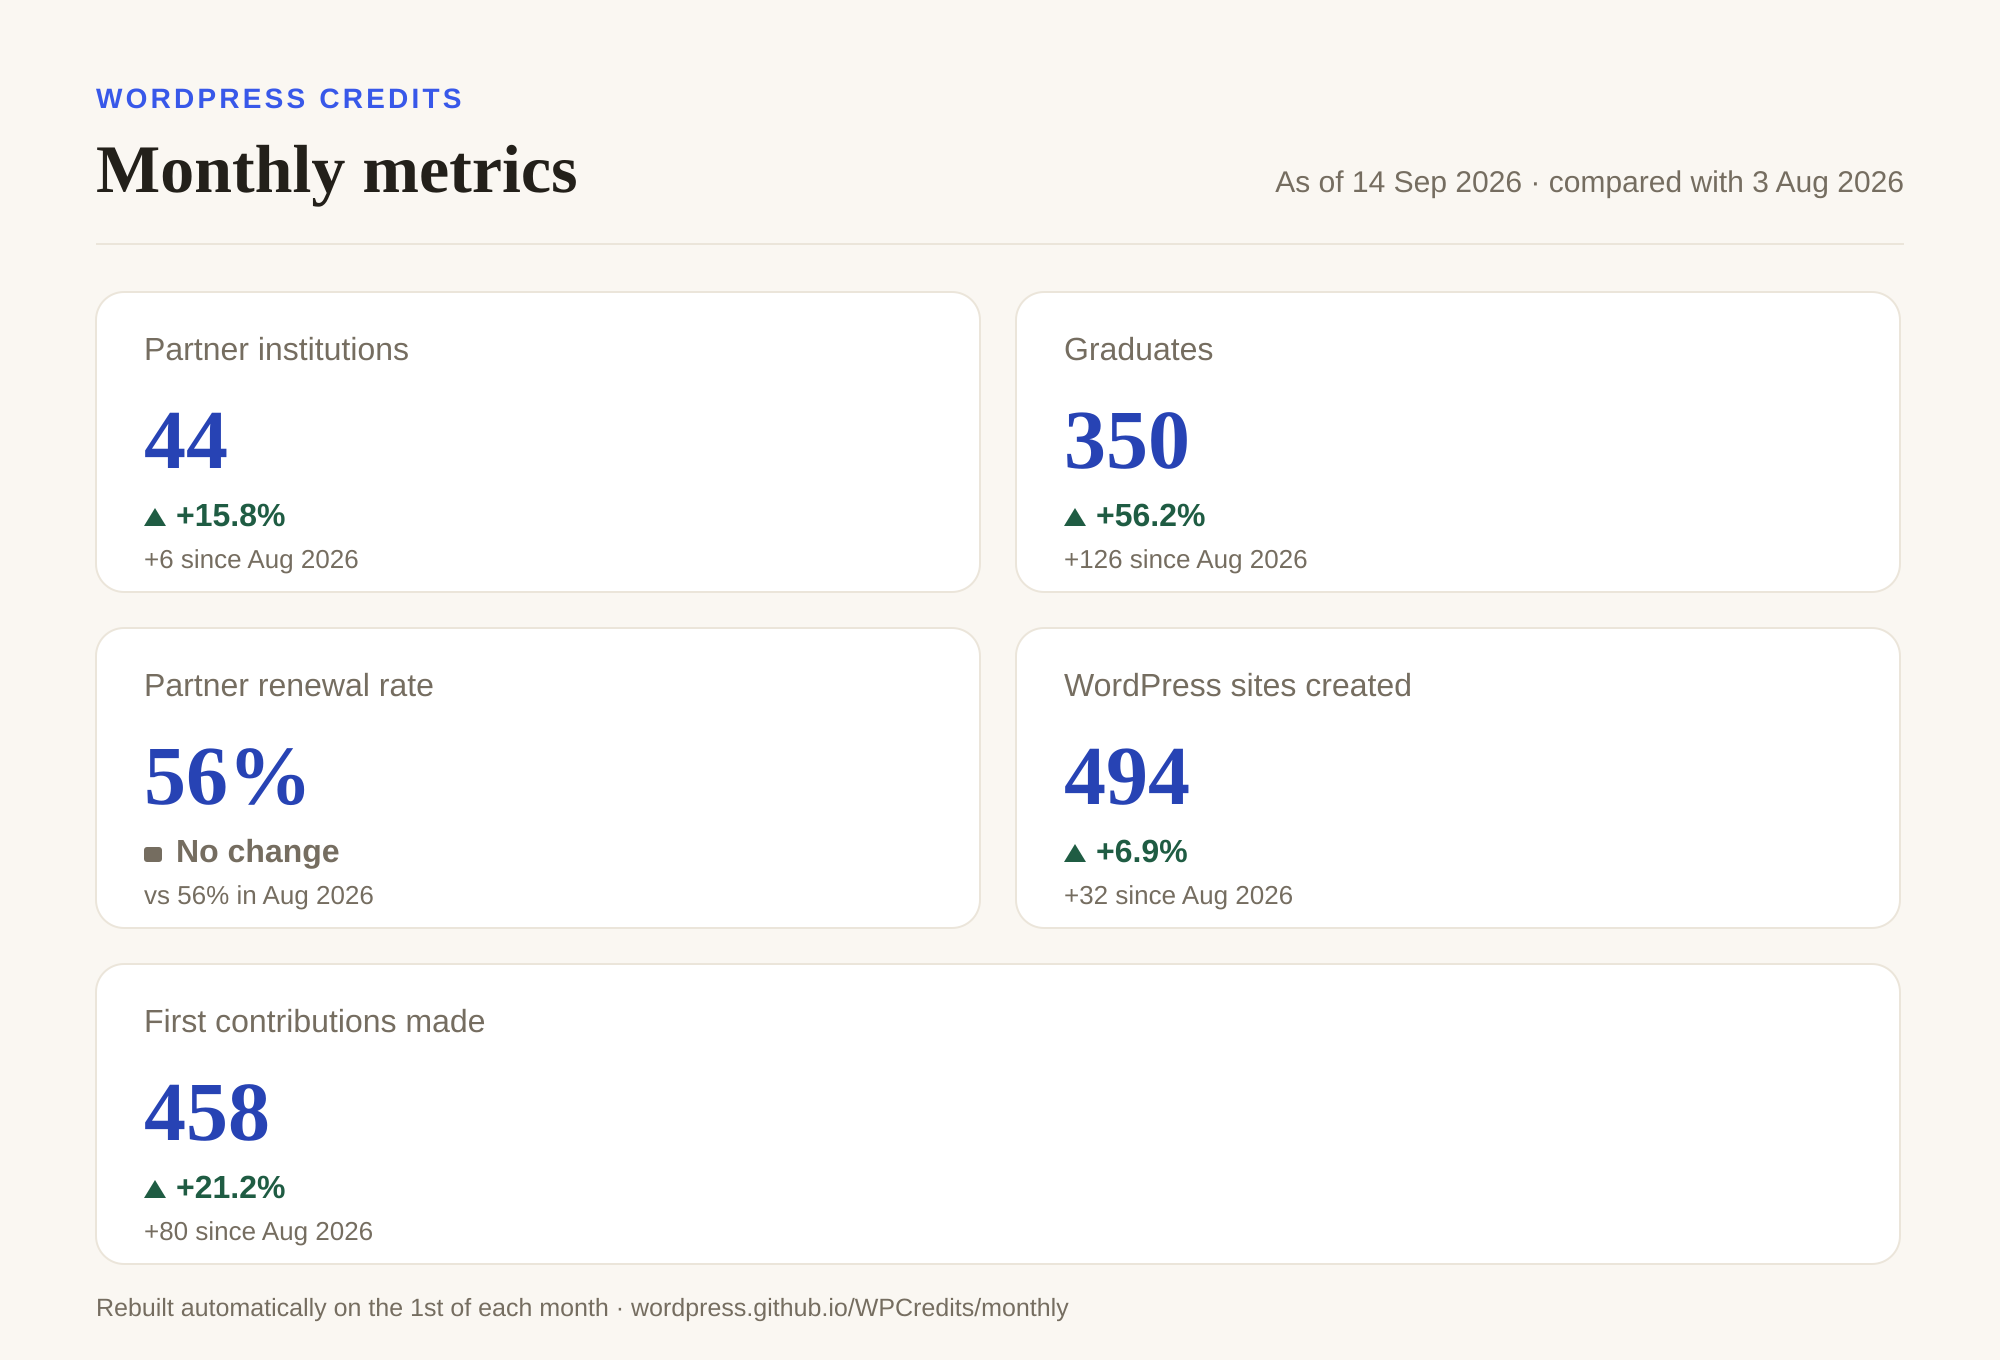
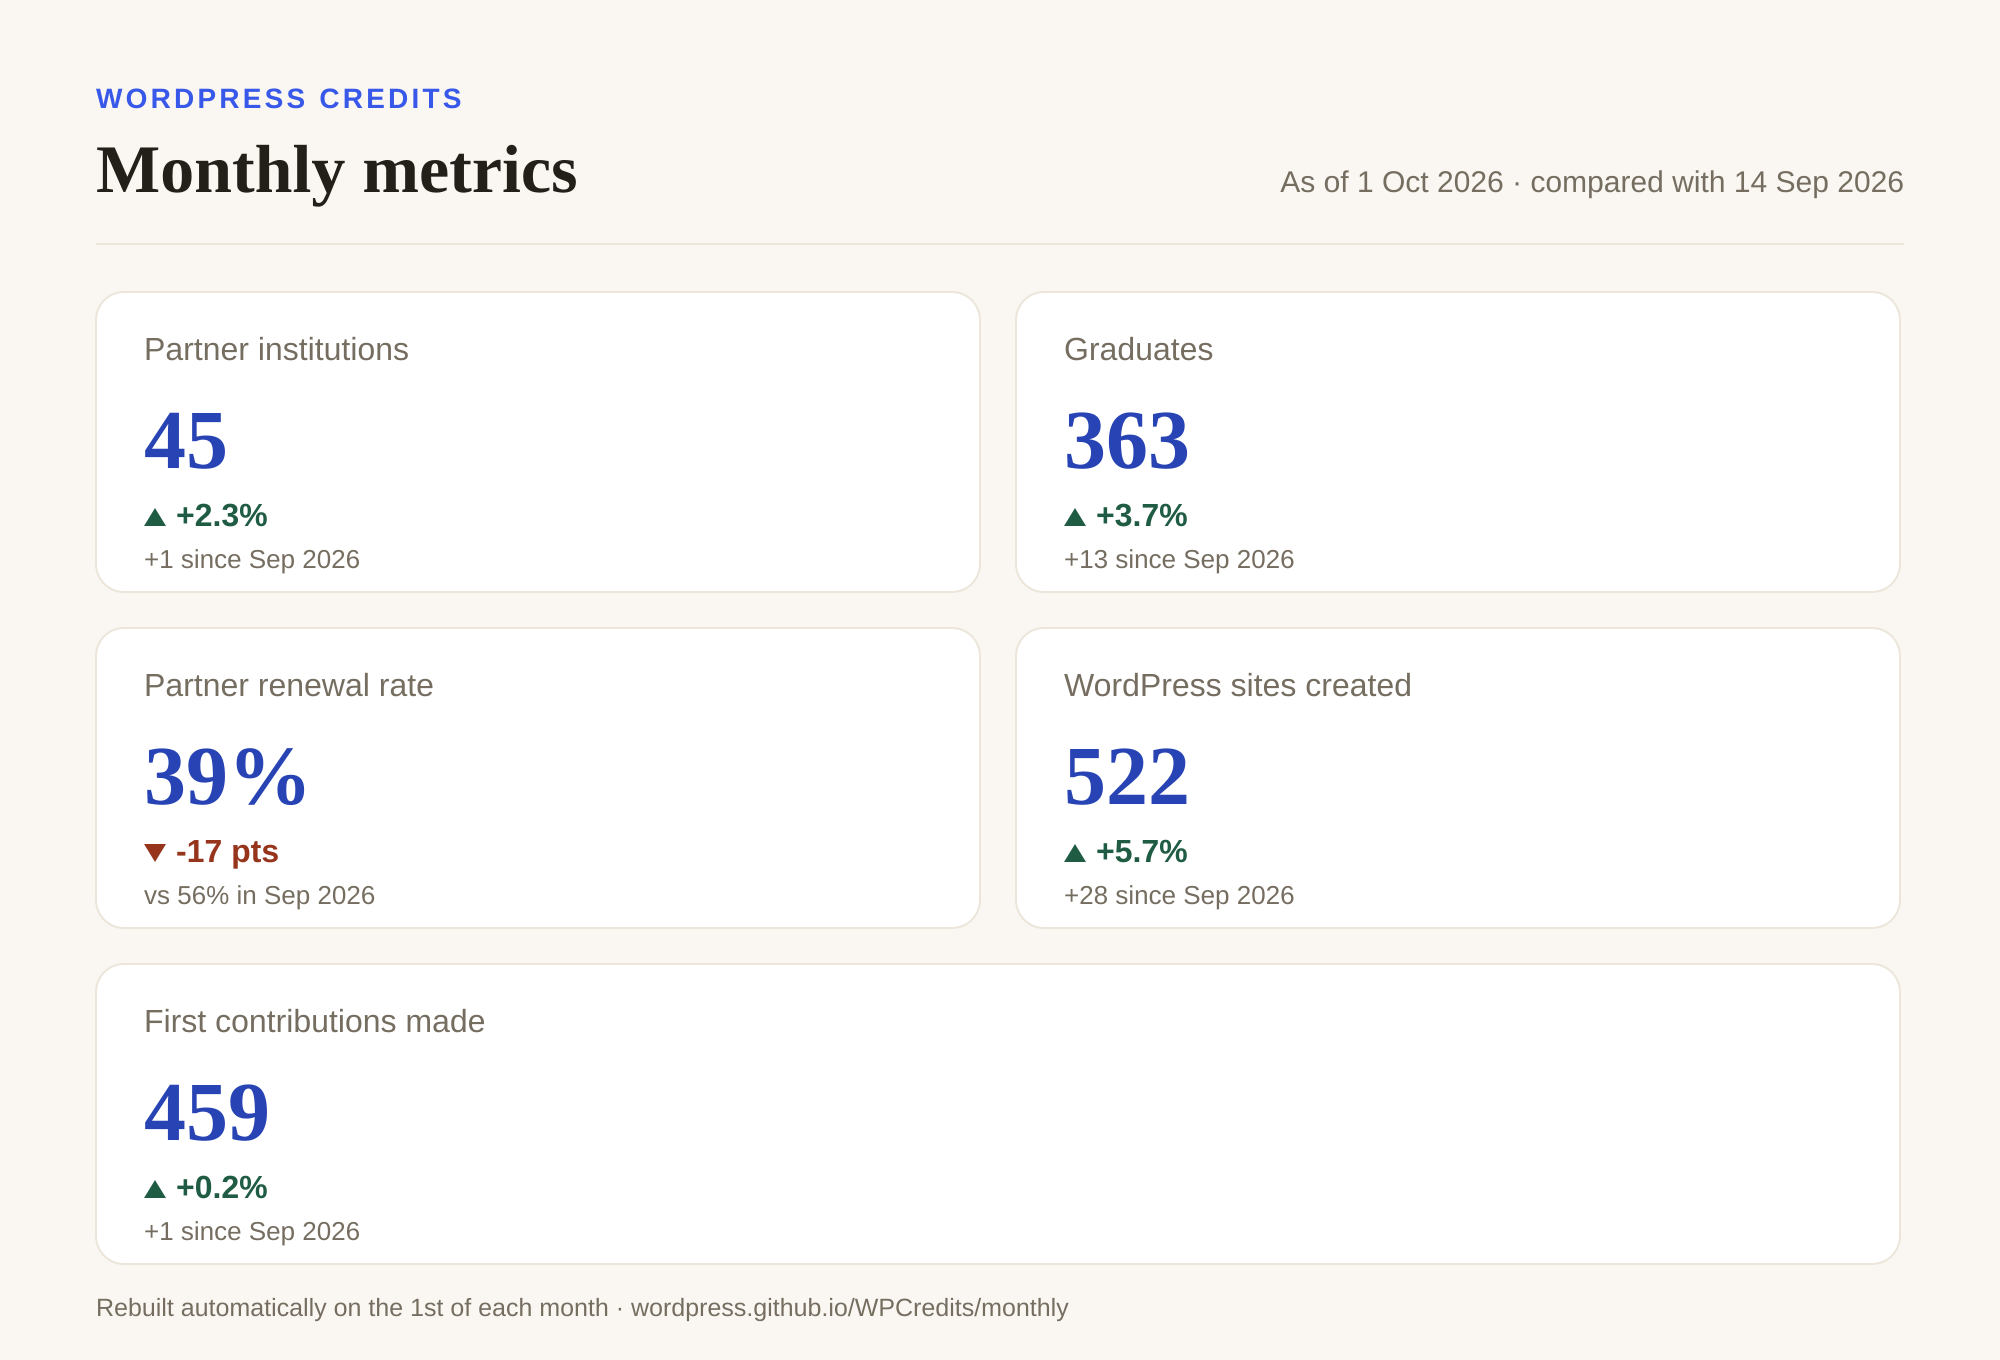
Update monthly metrics 2026-10-01

diff --git a/monthly.html b/monthly.html
@@ -108,7 +108,7 @@ footer{margin-top:34px;padding-top:20px;border-top:1px solid var(--border);font-
 </div>
 
 <script>
-const D = {"generated":"2026-09-14","currentKey":"2026-09","previousKey":"2026-08","currentAsOf":"2026-09-14","previousAsOf":"2026-08-03","months":["2026-04","2026-05","2026-06","2026-07","2026-08","2026-09"],"metrics":[{"key":"partnerInstitutions","label":"Partner institutions","unit":"count","note":"Institutions whose partnership stage is Confirmed.","value":44,"previous":38,"change":{"kind":"percent","value":15.8,"abs":6},"series":[{"month":"2026-04","value":9},{"month":"2026-05","value":21},{"month":"2026-06","value":24},{"month":"2026-07","value":29},{"month":"2026-08","value":38},{"month":"2026-09","value":44}]},{"key":"graduates","label":"Graduates","unit":"count","note":"Students who completed their agreed hours of applied work.","value":350,"previous":224,"change":{"kind":"percent","value":56.2,"abs":126},"series":[{"month":"2026-04","value":9},{"month":"2026-05","value":66},{"month":"2026-06","value":126},{"month":"2026-07","value":198},{"month":"2026-08","value":224},{"month":"2026-09","value":350}]},{"key":"renewalRate","label":"Partner renewal rate","unit":"percent","note":"Share of partners that have run more than one cohort — a new intake at least a quarter after their first. Schools whose first cohort is the current quarter are excluded, having had no chance to return yet.","value":56,"previous":56,"change":{"kind":"points","value":0,"abs":0},"series":[],"detail":{"count":10,"total":18,"tooNew":11}},{"key":"sitesCreated","label":"WordPress sites created","unit":"count","note":"Student project websites built during the program.","value":494,"previous":462,"change":{"kind":"percent","value":6.9,"abs":32},"series":[]},{"key":"firstContributions","label":"First contributions made","unit":"count","note":"Students who recorded their first contribution to the WordPress project.","value":458,"previous":378,"change":{"kind":"percent","value":21.2,"abs":80},"series":[]}],"table":[{"month":"2026-04","asOf":"2026-04-02","values":{"partnerInstitutions":9,"graduates":9,"renewalRate":null,"sitesCreated":null,"firstContributions":null}},{"month":"2026-05","asOf":"2026-05-04","values":{"partnerInstitutions":21,"graduates":66,"renewalRate":null,"sitesCreated":null,"firstContributions":null}},{"month":"2026-06","asOf":"2026-06-01","values":{"partnerInstitutions":24,"graduates":126,"renewalRate":null,"sitesCreated":null,"firstContributions":null}},{"month":"2026-07","asOf":"2026-07-06","values":{"partnerInstitutions":29,"graduates":198,"renewalRate":null,"sitesCreated":null,"firstContributions":null}},{"month":"2026-08","asOf":"2026-08-03","values":{"partnerInstitutions":38,"graduates":224,"renewalRate":56,"sitesCreated":462,"firstContributions":378}},{"month":"2026-09","asOf":"2026-09-14","values":{"partnerInstitutions":44,"graduates":350,"renewalRate":56,"sitesCreated":494,"firstContributions":458}}]};
+const D = {"generated":"2026-10-01","currentKey":"2026-10","previousKey":"2026-09","currentAsOf":"2026-10-01","previousAsOf":"2026-09-14","months":["2026-04","2026-05","2026-06","2026-07","2026-08","2026-09","2026-10"],"metrics":[{"key":"partnerInstitutions","label":"Partner institutions","unit":"count","note":"Institutions whose partnership stage is Confirmed.","value":45,"previous":44,"change":{"kind":"percent","value":2.3,"abs":1},"series":[{"month":"2026-04","value":9},{"month":"2026-05","value":21},{"month":"2026-06","value":24},{"month":"2026-07","value":29},{"month":"2026-08","value":38},{"month":"2026-09","value":44},{"month":"2026-10","value":45}]},{"key":"graduates","label":"Graduates","unit":"count","note":"Students who completed their agreed hours of applied work.","value":363,"previous":350,"change":{"kind":"percent","value":3.7,"abs":13},"series":[{"month":"2026-04","value":9},{"month":"2026-05","value":66},{"month":"2026-06","value":126},{"month":"2026-07","value":198},{"month":"2026-08","value":224},{"month":"2026-09","value":350},{"month":"2026-10","value":363}]},{"key":"renewalRate","label":"Partner renewal rate","unit":"percent","note":"Share of partners that have run more than one cohort — a new intake at least a quarter after their first. Schools whose first cohort is the current quarter are excluded, having had no chance to return yet.","value":39,"previous":56,"change":{"kind":"points","value":-17,"abs":-17},"series":[{"month":"2026-04","value":null},{"month":"2026-05","value":null},{"month":"2026-06","value":null},{"month":"2026-07","value":null},{"month":"2026-08","value":56},{"month":"2026-09","value":56},{"month":"2026-10","value":39}],"detail":{"count":12,"total":31,"tooNew":0}},{"key":"sitesCreated","label":"WordPress sites created","unit":"count","note":"Student project websites built during the program.","value":522,"previous":494,"change":{"kind":"percent","value":5.7,"abs":28},"series":[{"month":"2026-04","value":null},{"month":"2026-05","value":null},{"month":"2026-06","value":null},{"month":"2026-07","value":null},{"month":"2026-08","value":462},{"month":"2026-09","value":494},{"month":"2026-10","value":522}]},{"key":"firstContributions","label":"First contributions made","unit":"count","note":"Students who recorded their first contribution to the WordPress project.","value":459,"previous":458,"change":{"kind":"percent","value":0.2,"abs":1},"series":[{"month":"2026-04","value":null},{"month":"2026-05","value":null},{"month":"2026-06","value":null},{"month":"2026-07","value":null},{"month":"2026-08","value":378},{"month":"2026-09","value":458},{"month":"2026-10","value":459}]}],"table":[{"month":"2026-04","asOf":"2026-04-02","values":{"partnerInstitutions":9,"graduates":9,"renewalRate":null,"sitesCreated":null,"firstContributions":null}},{"month":"2026-05","asOf":"2026-05-04","values":{"partnerInstitutions":21,"graduates":66,"renewalRate":null,"sitesCreated":null,"firstContributions":null}},{"month":"2026-06","asOf":"2026-06-01","values":{"partnerInstitutions":24,"graduates":126,"renewalRate":null,"sitesCreated":null,"firstContributions":null}},{"month":"2026-07","asOf":"2026-07-06","values":{"partnerInstitutions":29,"graduates":198,"renewalRate":null,"sitesCreated":null,"firstContributions":null}},{"month":"2026-08","asOf":"2026-08-03","values":{"partnerInstitutions":38,"graduates":224,"renewalRate":56,"sitesCreated":462,"firstContributions":378}},{"month":"2026-09","asOf":"2026-09-14","values":{"partnerInstitutions":44,"graduates":350,"renewalRate":56,"sitesCreated":494,"firstContributions":458}},{"month":"2026-10","asOf":"2026-10-01","values":{"partnerInstitutions":45,"graduates":363,"renewalRate":39,"sitesCreated":522,"firstContributions":459}}]};
 
 const MONTH_NAMES = ['Jan','Feb','Mar','Apr','May','Jun','Jul','Aug','Sep','Oct','Nov','Dec'];
 function monthLabel(key){
